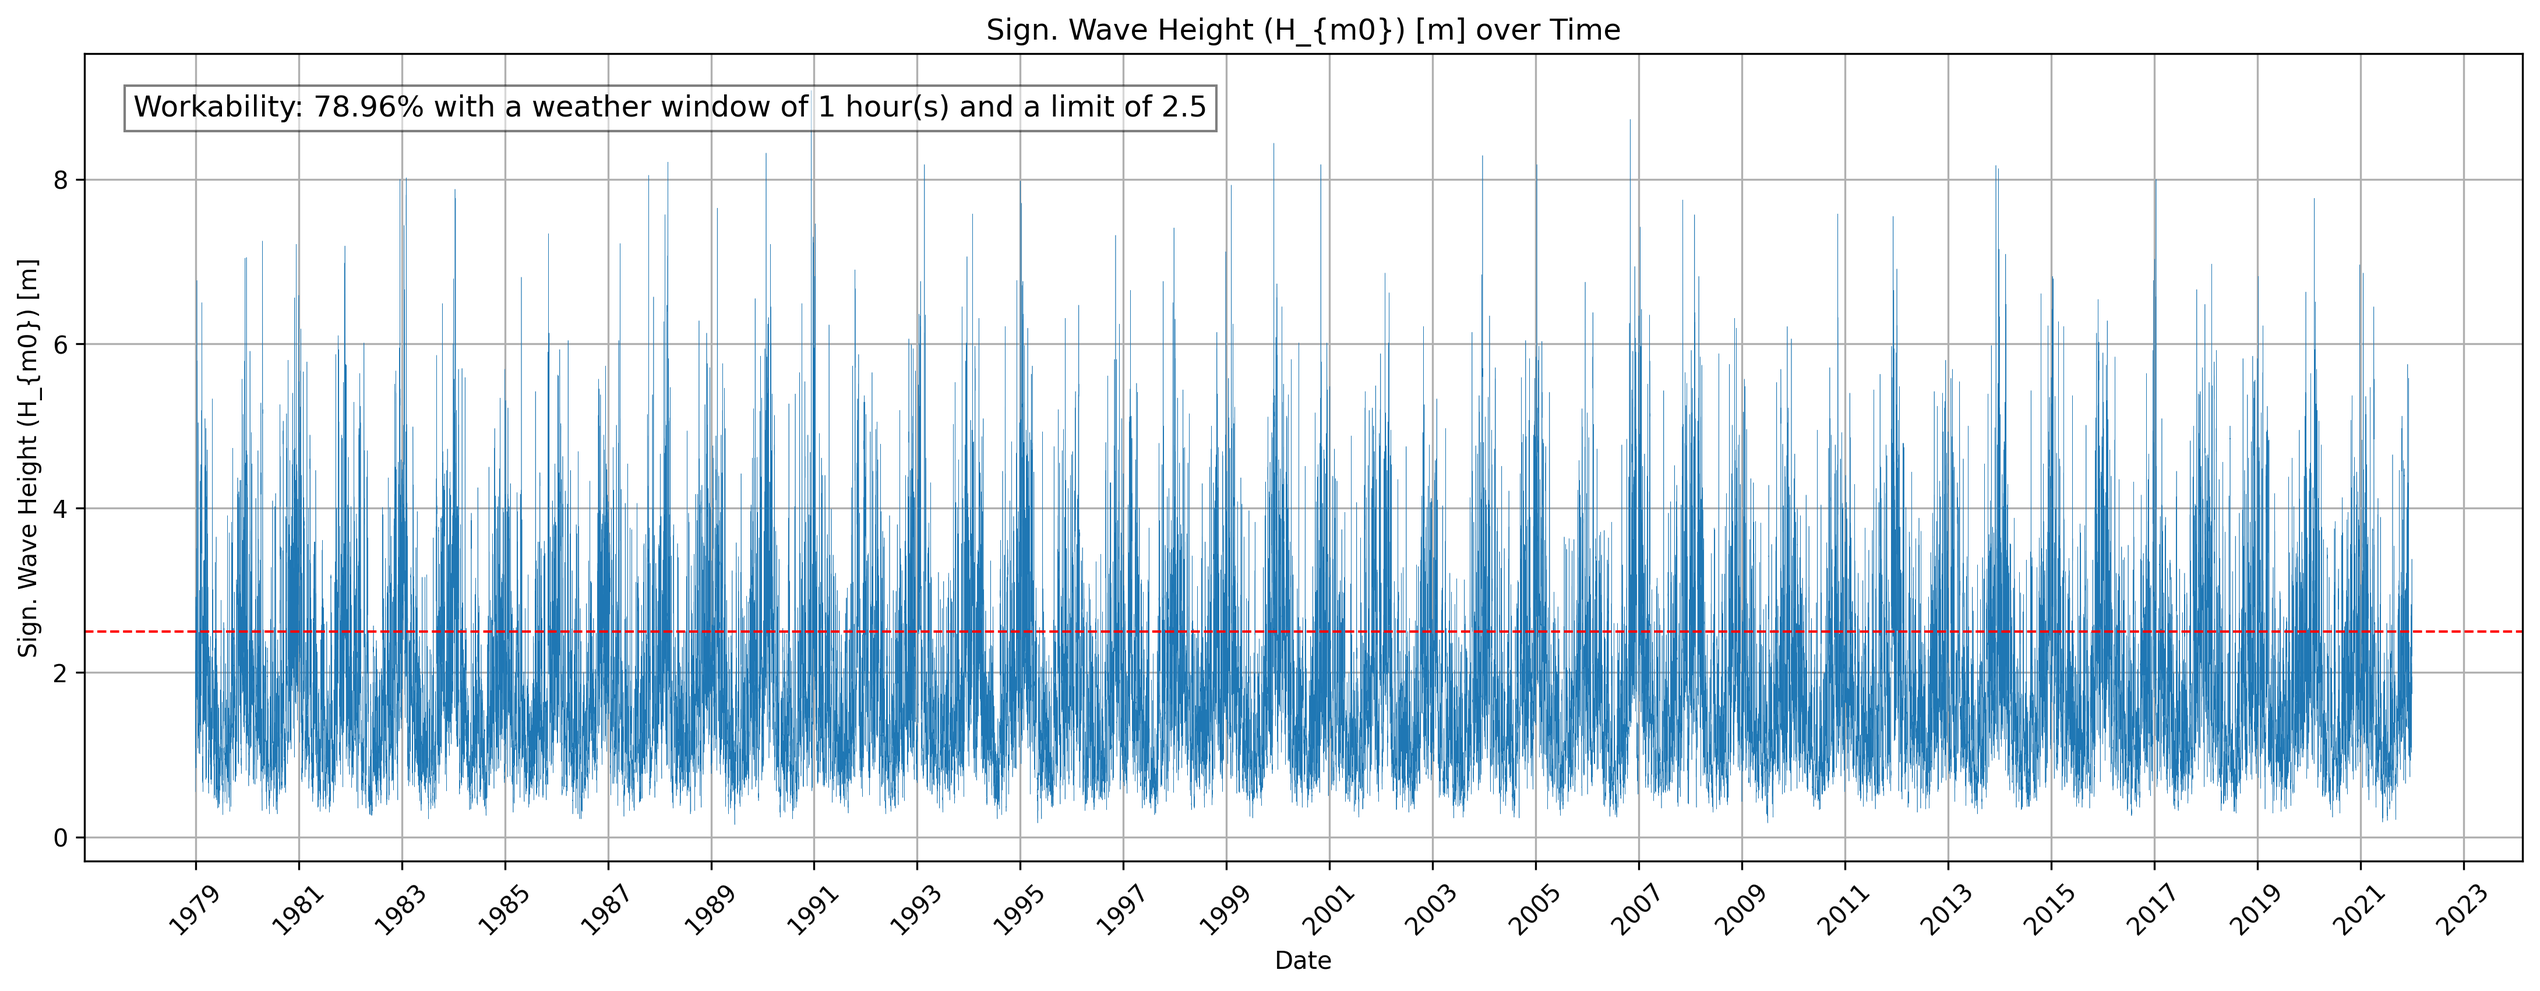
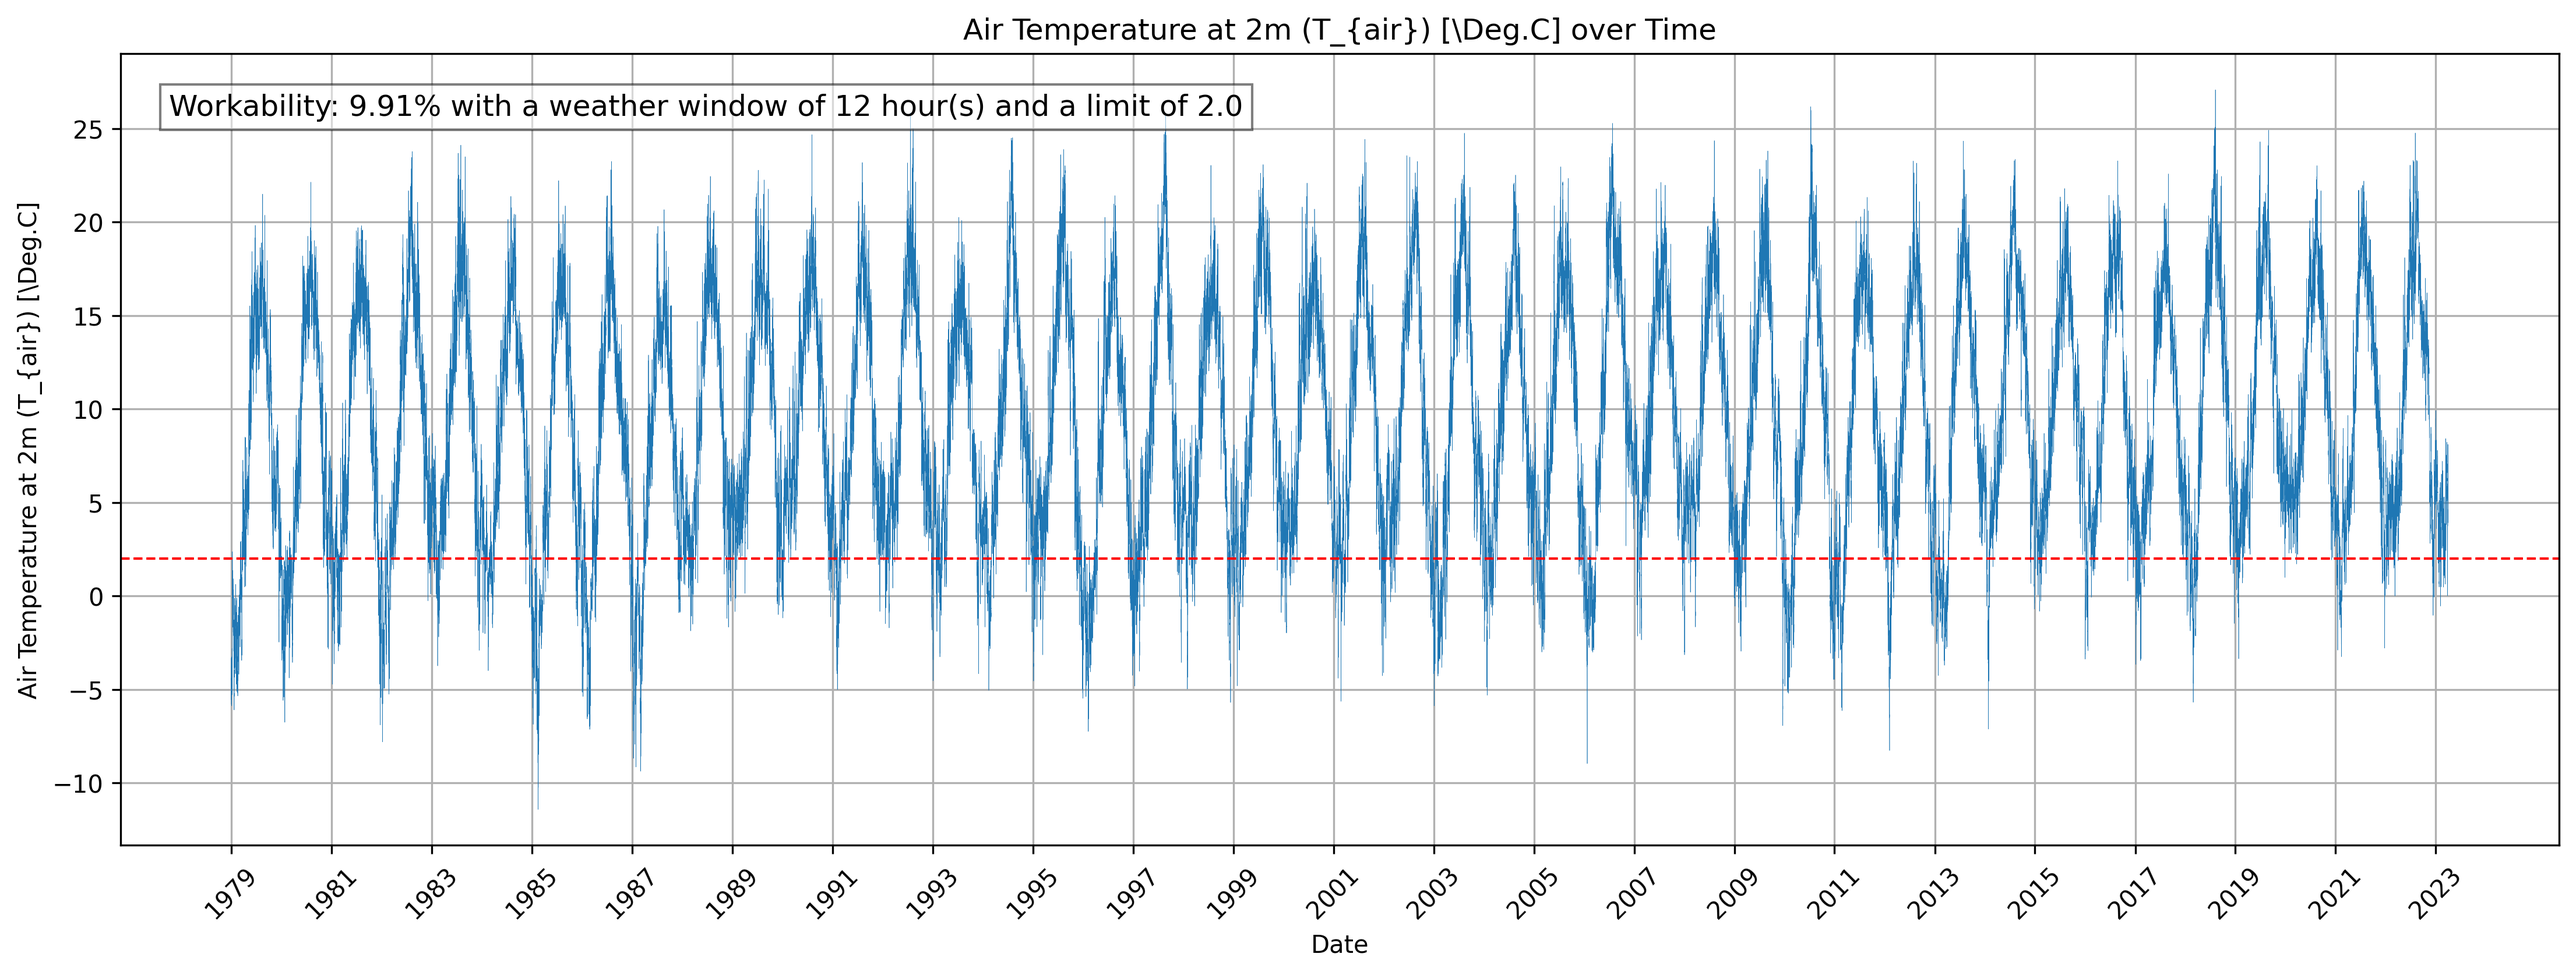
modified:   Workability_output.csv 	modified:   figure_workability.png 	new file:   test1.py

diff --git a/test1.py b/test1.py
@@ -1,0 +1,282 @@
+import pandas as pd
+import matplotlib.pyplot as plt
+import numpy as np
+import calendar
+from tabulate import tabulate
+import PySimpleGUI as sg
+
+def infer_date_format(date_string):
+    formats = [
+        '%Y-%m-%d %H:%M',
+        '%d-%m-%Y %H:%M',
+        '%m-%d-%Y %H:%M',
+        '%d/%m/%Y %H:%M',
+        '%m/%d/%Y %H:%M',
+        '%Y/%m/%d %H:%M',
+    ]
+    for fmt in formats:
+        try:
+            if fmt in ['%Y-%m-%d %H:%M', '%Y/%m/%d %H:%M']:
+                pd.to_datetime(date_string, format=fmt, dayfirst=False)
+            else:
+                pd.to_datetime(date_string, format=fmt, dayfirst=True)
+            return fmt
+        except ValueError:
+            continue
+    return None
+
+def find_data_start(file_path):
+    with open(file_path) as file:
+        for line_num, line in enumerate(file):
+            row_data = line.strip().split(",")
+            if len(row_data) >= 2:
+                return line_num
+    return None
+
+def plot_csv_data(file_path, time, investigation):
+    # Determine the start of the data dynamically
+    data_start = find_data_start(file_path)
+    if data_start is None:
+        print("Data start not found.")
+        return
+
+    # Load the data from the CSV file, skipping the header lines
+    df = pd.read_csv(file_path, skiprows=data_start)
+    # Create a list of header names from the CSV file
+    header_names = list(df.columns)
+    
+    # Define the layout for the GUI window
+    layout = [
+        [sg.Text("Choose date/time column: "), sg.Combo(header_names, default_value=time, key='time')],
+        [sg.Text('')],
+        [sg.Text("Choose column to investigate: "), sg.Combo(header_names, default_value=investigation, key='investigation')],
+        [sg.Text('')],
+        [sg.Text('Enter the desired limit:')],
+        [sg.Input(key='-LIMIT-')],
+        [sg.Text('')],
+        [sg.Text('Enter the weather window duration in hours (enter "1" for default timestep of 1 hour):')],
+        [sg.Input(key='-WINDOW HOURS-')],
+        [sg.Text('')],
+        [sg.Text('Do you want to investigate workability based on certain months?')],
+        [sg.Radio('Yes', 'RADIO1', key='-RADIO YES-'), sg.Radio('No', 'RADIO1', key='-RADIO NO-', default=True)],
+        [sg.Text('')],
+        [sg.Text('Start month:'), sg.Combo(list(calendar.month_abbr[1:]), key='-START MONTH-', enable_events=True, disabled=False)],
+        [sg.Text('End month:'), sg.Combo(list(calendar.month_abbr[1:]), key='-END MONTH-', enable_events=True, disabled=False)],
+        [sg.Text('')],
+        [sg.Button("Plot"), sg.Button("Exit")]
+    ]
+    
+    # Create the GUI window
+    window = sg.Window("CSV Plotter", layout)
+    
+    # Event loop to process GUI events
+    while True:
+        event, values = window.read()
+        
+        if event == "Plot":
+            time = values['time']
+            investigation = values['investigation']
+            inputted_limit = float(values['-LIMIT-'])
+            window_hours = int(values['-WINDOW HOURS-'])
+            investigate_range = values['-RADIO YES-']
+            start_month = values['-START MONTH-']
+            end_month = values['-END MONTH-']
+            window.close()
+            break
+        
+        if event in (sg.WINDOW_CLOSED, "Exit"):
+            break
+    
+    # Close the GUI window
+    window.close()
+    
+    # Perform the plotting
+    first_value = str(df[time].iloc[0])
+    print(f"First value: {first_value}")
+    # Infer the date format based on the first value
+    date_format = infer_date_format(first_value)
+    print(f"Inferred date format: {date_format}")
+    
+    if date_format is None:
+        print("Unable to infer date format.")
+        return
+
+    # Convert the time column to a datetime format with the inferred format
+    df[time] = pd.to_datetime(df[time], format=date_format)
+    # Set the datetime column as the index
+    df.set_index(time, inplace=True)
+    
+    # Resample the data to hourly frequency and select the mean value for each hour
+    df = df.resample('H').mean()
+    #print(df[264:290])
+    # Create the plot
+    fig, ax = plt.subplots(figsize=(18, 6))
+    
+    # Filter the data based on the selected months
+    if investigate_range:
+        # Convert month names to month numbers
+        month_dict = {v.lower(): k for k, v in enumerate(calendar.month_abbr) if k != 0}
+    
+        try:
+            start_month_num = month_dict[start_month.lower()]
+            end_month_num = month_dict[end_month.lower()]
+            selected_months = range(start_month_num, end_month_num + 1)
+    
+            # Filter the data based on the selected months
+            df_filtered = df[df.index.month.isin(selected_months)]
+    
+            # Calculate the window size based on the window hours
+            window_size = window_hours
+    
+            # Calculate workability for the selected month range
+            values = df_filtered[investigation].values
+            avg_workability = np.mean(np.all(values[np.arange(window_size)[:, None] + np.arange(len(values) - window_size + 1)] < inputted_limit, axis=0)) * 100
+    
+            # Plot the data for the selected month range
+            ax.plot(df_filtered.index, df_filtered[investigation], color='tab:blue', linewidth=0.15)
+    
+            # Add text box with workability value
+            props = dict(boxstyle='square', facecolor='white', alpha=0.5)
+            textstr = f"Average Workability: {avg_workability:.2f}% for months {start_month} to {end_month} with weather window of {window_hours} hour(s) and limit of {inputted_limit}"
+            ax.text(0.02, 0.95, textstr, transform=ax.transAxes, fontsize=12, verticalalignment='top', bbox=props, color='black')
+    
+            console_output = []
+            console_output.append('')
+            console_output.append(f"Average Workability: {avg_workability:.2f}% for months {start_month} to {end_month} with weather window of {window_hours} hour(s) and limit of {inputted_limit}")
+            # Print the average workability for the selected months
+            print(f"Average Workability: {avg_workability:.2f}% for months {start_month} to {end_month} with weather window of {window_hours} hour(s) and limit of {inputted_limit}")
+        except KeyError:
+            print("Invalid month format. Please enter a valid capitalized month name or abbreviation.")
+    else:
+        # Calculate workability for the entire data range
+        values = df[investigation].values
+        window_size = window_hours
+    
+        workability = np.mean(np.all(values[np.arange(window_size)[:, None] + np.arange(len(values) - window_size + 1)] < inputted_limit, axis=0)) * 100
+    
+        # Plot the data for the entire range
+        ax.plot(df.index, df[investigation], color='tab:blue', linewidth=0.15)
+    
+        # Add text box with workability value
+        props = dict(boxstyle='square', facecolor='white', alpha=0.5)
+        textstr = f"Workability: {workability:.2f}% with a weather window of {window_hours} hour(s) and a limit of {inputted_limit}"
+        ax.text(0.02, 0.95, textstr, transform=ax.transAxes, fontsize=12, verticalalignment='top', bbox=props, color='black')
+    
+        # Print the workability value
+        print(f"Workability: {workability:.2f}% with a weather window of {window_hours} hour(s) and a limit of {investigation} = {inputted_limit}")
+        # Print the workability value into the csv
+        console_output = []
+        console_output.append('')
+        console_output.append(f"Workability: {workability:.2f}% with a weather window of {window_hours} hour(s) and a limit of {investigation} = {inputted_limit}")
+        
+    #Printing workability of each month
+    start_month_num = 1
+    end_month_num = 12
+    selected_months_W = range(start_month_num, end_month_num + 1)
+    selected_month_names_W = [calendar.month_name[i] for i in selected_months_W]
+    # Initialize a list to store workability values for the selected months
+    month_workability_all = []
+
+    # Iterate over the selected months
+    for month in selected_months_W:
+        # Filter the data for the current month
+        month_data = df[df.index.month == month]
+
+        # Calculate workability for the current month
+        values = month_data[investigation].values
+        workability_month = np.mean(np.all(values[np.arange(window_size)[:, None] + np.arange(len(values) - window_size + 1)] < inputted_limit, axis=0)) * 100
+        month_workability_all.append(workability_month)
+
+    # Create a list of lists containing the month name and its corresponding workability value
+    table_data = [[month_name, f"{workability_month:.2f}%"] for month_name, workability_month in zip(selected_month_names_W, month_workability_all)]
+    console_output.append('')
+    console_output.append(f'Table of monthly mean workability with a weather window of {window_hours} hour(s) and a limit of {investigation} = {inputted_limit}')
+    # Print the table
+    console_output.append('')
+    console_output.append(tabulate(table_data, headers=["Month", "Mean Workability"]))
+    print(' ')
+    print(f'Table of monthly mean workability with a weather window of {window_hours} hour(s) and a limit of {investigation} = {inputted_limit}')
+    # Print the table
+    print(' ')
+    print(tabulate(table_data, headers=["Month", "Mean Workability"]))  
+    
+    # Save the console output to a CSV file
+    with open('Workability_output.csv', 'w') as file:
+        for line in console_output:
+            file.write(line + '\n')
+
+    # Close the file
+    file.close()
+    print(' ')
+    print('Data saved in Workability_output.csv file found in directory') 
+    
+    # Plot line
+    ax.axhline(y=inputted_limit, color='red', linestyle='--', linewidth=1)
+
+    # Set the x-axis label
+    ax.set_xlabel('Date')
+
+    # Set the y-axis label
+    ax.set_ylabel(investigation)
+
+    # Set the title
+    ax.set_title(f'{investigation} over Time')
+
+    # Show grid lines
+    ax.grid(True)
+
+    # Define dictionary of frequency to format string mappings
+    freq_fmt_dict = {
+        'AS': '%Y',
+        '2AS': '%Y'
+    }
+    # Determine default frequency based on number of data points
+    num_points = len(df) / 24
+
+    if num_points <= 3653:
+        freq = 'AS'
+        freq_fmt = freq_fmt_dict[freq]
+    else:
+        freq = '2AS'
+        freq_fmt = freq_fmt_dict[freq]
+
+    xticks = pd.date_range(start=df.index.min(), end=df.index.max(), freq=freq)
+    xticks = xticks[xticks >= pd.to_datetime(df.index.min())]
+    xticks_shifted = xticks.shift(1, freq=freq)
+    xticks = xticks.union(xticks_shifted)
+    ax.set_xticks(xticks)
+    ax.set_xticklabels(xticks.strftime(freq_fmt))
+
+    # Rotate x-axis labels to avoid overlapping
+    plt.xticks(rotation=45)
+    #save the plot
+    plt.savefig('figure_workability.png', dpi=300, bbox_inches='tight')
+    # Show the plot
+    plt.show()
+
+# Define the layout for the initial GUI window
+layout = [
+    [sg.Text("Enter the file path for the CSV file: "), sg.InputText(), sg.FileBrowse()],
+    [sg.Button("Next"), sg.Button("Exit")]
+]
+
+# Create the initial GUI window
+window = sg.Window("CSV Plotter", layout)
+
+# Event loop to process GUI events
+while True:
+    event, values = window.read()
+
+    if event == "Next":
+        file_path = values[0]
+        window.close()
+        break
+
+    if event in (sg.WINDOW_CLOSED, "Exit"):
+        break
+
+# Close the initial GUI window
+window.close()
+
+# Open the next GUI window to choose columns and plot the data
+plot_csv_data(file_path, "", "")
